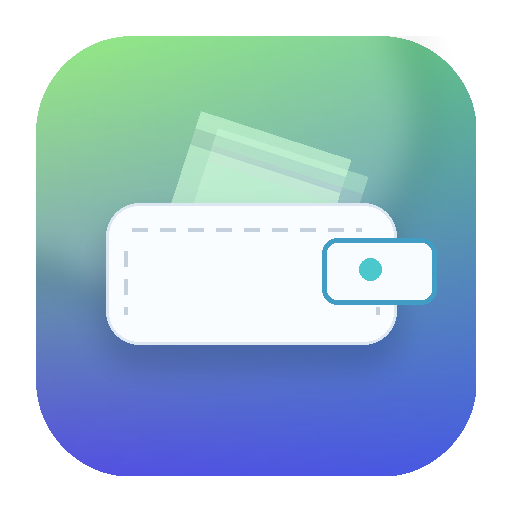
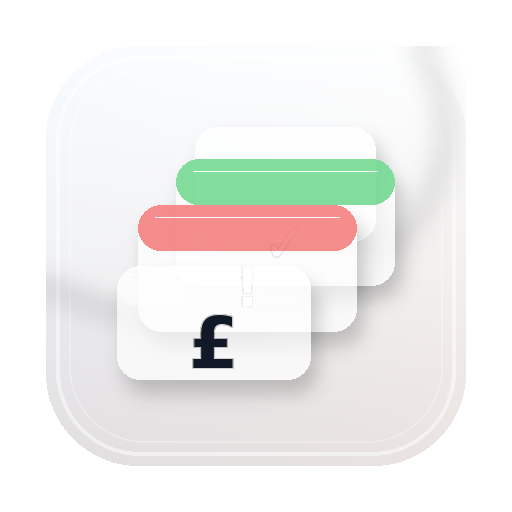
Add files via upload

diff --git a/index.html b/index.html
@@ -1,16 +1,13 @@
 <!DOCTYPE html>
 <html lang="en">
 <head>
-<!-- due date descending sort fix build: 2026-05-12 19:07:41 -->
+<!-- glass card PWA icons + in-app brand icon build: 2026-05-12 19:15:32 -->
 <meta charset="utf-8">
 <meta name="viewport" content="width=device-width, initial-scale=1, viewport-fit=cover">
-<meta name="theme-color" content="#80e45e">
 <meta name="apple-mobile-web-app-capable" content="yes">
 <meta name="apple-mobile-web-app-status-bar-style" content="default">
 <meta name="apple-mobile-web-app-title" content="Month Spread">
 <link rel="manifest" href="manifest.json?v=20260512-153350">
-<link rel="apple-touch-icon" href="apple-touch-icon.png?v=20260512-153350">
-<link rel="icon" type="image/png" sizes="192x192" href="icon-192.png?v=20260512-153350">
 <title>Month Spread</title>
 <style>
 :root{
@@ -1066,12 +1063,50 @@ body.dark .tabs .tab.active:hover,
   outline:none !important;
 }
 
+
+/* === glass card PWA brand icon 2026-05-12 19:15:32 === */
+.brand-icon,
+.app-icon,
+.logo,
+.logo-mark {
+  background-image: url('brand-icon.png?v=20260512-191532') !important;
+  background-size: cover !important;
+  background-position: center !important;
+  background-repeat: no-repeat !important;
+  color: transparent !important;
+  text-shadow: none !important;
+  font-size: 0 !important;
+  overflow: hidden !important;
+}
+body.dark .brand-icon,
+body.dark .app-icon,
+body.dark .logo,
+body.dark .logo-mark,
+[data-theme="dark"] .brand-icon,
+[data-theme="dark"] .app-icon,
+[data-theme="dark"] .logo,
+[data-theme="dark"] .logo-mark {
+  background-image: url('brand-icon-dark.png?v=20260512-191532') !important;
+}
+.brand-icon::before,
+.app-icon::before,
+.logo::before,
+.logo-mark::before {
+  content: '' !important;
+}
+
 </style>
+
+<link rel="icon" type="image/png" sizes="32x32" href="glass-cards-icon-32.png?v=20260512-191532">
+<link rel="icon" type="image/png" sizes="192x192" href="icon-192.png?v=20260512-191532">
+<link rel="apple-touch-icon" href="apple-touch-icon.png?v=20260512-191532">
+<meta name="theme-color" content="#ffffff">
+
 </head>
 <body>
 <div id="app" class="app">
   <header class="topbar">
-    <div class="brand"><div class="brand-icon">£</div><div><h1 class="title">Month Spread</h1><div class="subtitle" id="subtitle">Loading…</div></div></div>
+    <div class="brand"><div class="brand-icon"></div><div><h1 class="title">Month Spread</h1><div class="subtitle" id="subtitle">Loading…</div></div></div>
     <div class="toolbar"><select class="month-picker" id="monthPicker" aria-label="Choose month"></select><button class="icon-btn" id="themeBtn" title="Theme">☾</button><button class="icon-btn" id="settingsBtn" title="Settings">⚙</button></div>
   </header>
   <div class="search-row"><label class="search">⌕<input id="searchBills" placeholder="Search bills…"></label><button class="filter-btn" id="refreshBtn">↻</button></div>
@@ -1149,7 +1184,7 @@ function renderMonth(table){const q=(searchBills.value||'').trim().toLowerCase()
       <button type="button" class="sort-pill paid-sort" data-sort="paid">Paid</button>
       <button type="button" class="sort-pill date-sort" data-sort="dateAsc">Due ↑</button>
       <button type="button" class="sort-pill date-sort" data-sort="dateDesc">Due ↓</button>
-    </div></div><section class="bill-list">${rows.map(r=>{const paid=isRowPaid(r);return `<article class="bill-card ${paid?'paid':'unpaid'}"><div class="bill-icon">£</div><div><div class="bill-name">${escapeHtml(r.name)}</div><div class="bill-meta">Due ${escapeHtml(r.dueDate||'—')}</div></div><div class="bill-right"><div class="bill-amount">${fmtMoney(r.due)}</div><button class="status-pill ${paid?'pill-paid':'pill-due'}" data-paid-row="${r.sheetRow}">${paid?'Paid':'Outstanding'}</button></div></article>`}).join('')}</section>`;sortBills.value=CURRENT_SORT;sortBills.onchange=()=>{CURRENT_SORT=sortBills.value;localStorage.setItem('ms.sort',CURRENT_SORT);renderMonth(table)};document.querySelectorAll('[data-sort]').forEach(b=>b.onclick=()=>{CURRENT_SORT=b.dataset.sort;localStorage.setItem('ms.sort',CURRENT_SORT);renderMonth(table)});document.querySelectorAll('[data-row]').forEach(b=>b.onclick=()=>togglePaid(b.dataset.row));leftAmount.oninput=()=>{setLeft(table,{amount:parseFloat(leftAmount.value)||0,endDate:leftUntil.value||defaultEndDate()});renderMonth(table)};leftUntil.onchange=()=>{setLeft(table,{amount:parseFloat(leftAmount.value)||0,endDate:leftUntil.value||defaultEndDate()});renderMonth(table)}}
+    </div></div><section class="bill-list">${rows.map(r=>{const paid=isRowPaid(r);return `<article class="bill-card ${paid?'paid':'unpaid'}"><div class="bill-icon brand-icon">£</div><div><div class="bill-name">${escapeHtml(r.name)}</div><div class="bill-meta">Due ${escapeHtml(r.dueDate||'—')}</div></div><div class="bill-right"><div class="bill-amount">${fmtMoney(r.due)}</div><button class="status-pill ${paid?'pill-paid':'pill-due'}" data-paid-row="${r.sheetRow}">${paid?'Paid':'Outstanding'}</button></div></article>`}).join('')}</section>`;sortBills.value=CURRENT_SORT;sortBills.onchange=()=>{CURRENT_SORT=sortBills.value;localStorage.setItem('ms.sort',CURRENT_SORT);renderMonth(table)};document.querySelectorAll('[data-sort]').forEach(b=>b.onclick=()=>{CURRENT_SORT=b.dataset.sort;localStorage.setItem('ms.sort',CURRENT_SORT);renderMonth(table)});document.querySelectorAll('[data-row]').forEach(b=>b.onclick=()=>togglePaid(b.dataset.row));leftAmount.oninput=()=>{setLeft(table,{amount:parseFloat(leftAmount.value)||0,endDate:leftUntil.value||defaultEndDate()});renderMonth(table)};leftUntil.onchange=()=>{setLeft(table,{amount:parseFloat(leftAmount.value)||0,endDate:leftUntil.value||defaultEndDate()});renderMonth(table)}}
 async function togglePaid(sheetRow){const table=CACHED_TABLES[monthPicker.value]||CACHED_TABLES[0];const row=table.rows.find(r=>String(r.sheetRow)===String(sheetRow));if(!row)return;await updateValues(`${colLetter(row.paidCol)}${row.sheetRow}`,[[isRowPaid(row)?row.due:0]]);await loadSpreadsheet()}
 async function appendBill(){const table=CACHED_TABLES[monthPicker.value]||CACHED_TABLES[0];if(!table)return;const name=newName.value.trim(),dueDate=newDueDate.value.trim(),amount=parseMoney(newAmount.value);if(!name||!amount)return;const row=Math.max(...table.rows.map(r=>r.sheetRow||0))+1;await updateValues(`${colLetter(table.labelCol)}${row}:${colLetter(table.paidCol)}${row}`,[[name,dueDate,amount,amount]]);closeAdd();await loadSpreadsheet()}
 async function loadSpreadsheet(){content.innerHTML='<div class="spinner">Fetching your spreadsheet…</div>';try{CACHED_TABLES=parseTablesFromGrid(await fetchSheet());render();setTimeout(msWireLeftAmountUpdate,50)}catch(e){if(String(e.message).toLowerCase().includes('sign')){showSignIn();return}content.innerHTML=`<div class="error"><strong>Couldn’t load spreadsheet:</strong><br>${escapeHtml(e.message||e)}</div>`}}

diff --git a/service-worker.js b/service-worker.js
@@ -1,4 +1,4 @@
-const CACHE = 'ms-due-sort-fix-20260512-190741';
+const CACHE = 'ms-glass-card-icons-20260512-191532';
 const SHELL=['./','./index.html','./manifest.json','./icon-192.png','./icon-512.png','./icon-512-maskable.png','./apple-touch-icon.png','./favicon.png'];
 self.addEventListener('install',e=>e.waitUntil(caches.open(CACHE).then(c=>c.addAll(SHELL)).then(()=>self.skipWaiting())));
 self.addEventListener('activate',e=>e.waitUntil(caches.keys().then(keys=>Promise.all(keys.filter(k=>k!==CACHE).map(k=>caches.delete(k)))).then(()=>self.clients.claim())));
